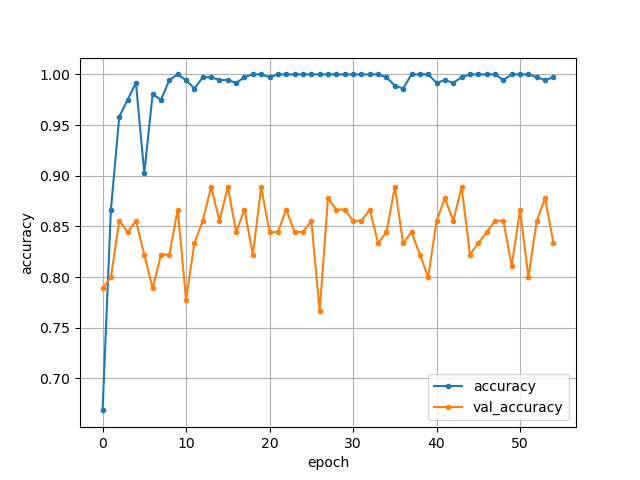
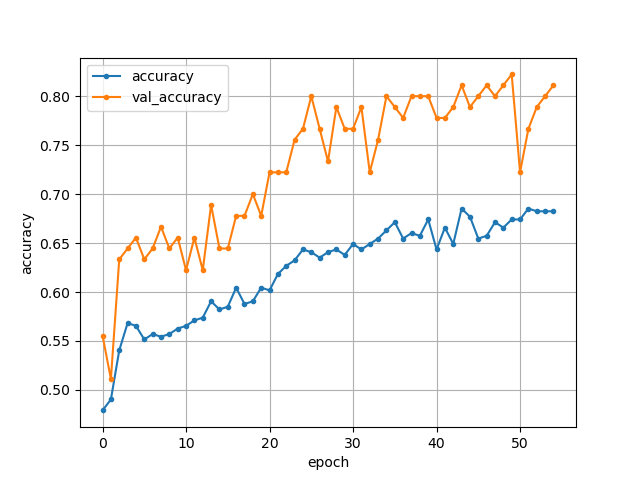
added more prebuilt models

diff --git a/src/customCNN/fine_tune.py b/src/customCNN/fine_tune.py
@@ -6,8 +6,12 @@ import imghdr
 import pickle as pkl
 import numpy as np
 import matplotlib.pyplot as plt
+from keras.layers import Input, Lambda, Dense, Flatten,Conv2D
+from keras.models import Sequential
+from keras.layers import MaxPooling2D
 from keras.applications.xception import Xception, preprocess_input
 from keras.applications.inception_v3 import InceptionV3
+from keras.applications.resnet_v2 import ResNet50V2
 from keras.optimizers import Adam
 import keras.utils as image
 # from keras.preprocessing import image
@@ -35,7 +39,7 @@ parser.add_argument('--split', type=float, default=0.8)
 
 
 def generate_from_paths_and_labels(
-        input_paths, labels, batch_size, input_size=(299, 299)):
+        input_paths, labels, batch_size, input_size=(224, 224)):
     num_samples = len(input_paths)
     while 1:
         perm = np.random.permutation(num_samples)
@@ -114,10 +118,13 @@ def main(args):
     # instantiate pre-trained Xception model
     # the default input shape is (299, 299, 3)
     # NOTE: the top classifier is not included
-    base_model = Xception(
-        include_top=False,
-        weights='imagenet',
-        input_shape=(299, 299, 3))
+    base_model = Sequential()
+
+    base_model.add(Conv2D(filters=16,kernel_size=2,padding="same",activation="relu",input_shape=(224,224,3)))
+    base_model.add(MaxPooling2D(pool_size=2))
+    base_model.add(Conv2D(filters=32,kernel_size=2,padding="same",activation ="relu"))
+    base_model.add(MaxPooling2D(pool_size=2))
+    base_model.add(Conv2D(filters=64,kernel_size=2,padding="same",activation="relu"))
 
     # create a custom top classifier
     x = base_model.output

diff --git a/src/InceptionV3/inference.py b/src/InceptionV3/inference.py
@@ -1,0 +1,45 @@
+import argparse
+import numpy as np
+from keras.applications.xception import preprocess_input
+import keras.utils as image
+# from keras.preprocessing import image
+from keras.models import load_model
+from PIL import Image
+
+parser = argparse.ArgumentParser()
+parser.add_argument('model')
+parser.add_argument('classes')
+parser.add_argument('image')
+parser.add_argument('--top_n', type=int, default=10)
+
+
+def main(args):
+
+    # create model
+    model = load_model(args.model)
+
+    # load class names
+    classes = []
+    with open(args.classes, 'r') as f:
+        classes = list(map(lambda x: x.strip(), f.readlines()))
+
+    # load an input image
+    img = image.load_img(args.image, target_size=(299, 299))
+    x = image.img_to_array(img)
+    x = np.expand_dims(x, axis=0)
+    x = preprocess_input(x)
+
+    # predict
+    pred = model.predict(x)[0]
+    result = [(classes[i], float(pred[i]) * 100.0) for i in range(len(pred))]
+    result.sort(reverse=True, key=lambda x: x[1])
+    for i in range(args.top_n):
+        (class_name, prob) = result[i]
+        print("Top %d ====================" % (i + 1))
+        print("Class name: %s" % (class_name))
+        print("Probability: %.2f%%" % (prob))
+
+
+if __name__ == '__main__':
+    args = parser.parse_args()
+    main(args)

diff --git a/src/ResNet50V2/inference.py b/src/ResNet50V2/inference.py
@@ -1,0 +1,45 @@
+import argparse
+import numpy as np
+from keras.applications.xception import preprocess_input
+import keras.utils as image
+# from keras.preprocessing import image
+from keras.models import load_model
+from PIL import Image
+
+parser = argparse.ArgumentParser()
+parser.add_argument('model')
+parser.add_argument('classes')
+parser.add_argument('image')
+parser.add_argument('--top_n', type=int, default=10)
+
+
+def main(args):
+
+    # create model
+    model = load_model(args.model)
+
+    # load class names
+    classes = []
+    with open(args.classes, 'r') as f:
+        classes = list(map(lambda x: x.strip(), f.readlines()))
+
+    # load an input image
+    img = image.load_img(args.image, target_size=(299, 299))
+    x = image.img_to_array(img)
+    x = np.expand_dims(x, axis=0)
+    x = preprocess_input(x)
+
+    # predict
+    pred = model.predict(x)[0]
+    result = [(classes[i], float(pred[i]) * 100.0) for i in range(len(pred))]
+    result.sort(reverse=True, key=lambda x: x[1])
+    for i in range(args.top_n):
+        (class_name, prob) = result[i]
+        print("Top %d ====================" % (i + 1))
+        print("Class name: %s" % (class_name))
+        print("Probability: %.2f%%" % (prob))
+
+
+if __name__ == '__main__':
+    args = parser.parse_args()
+    main(args)

diff --git a/src/VGG16/inference.py b/src/VGG16/inference.py
@@ -1,0 +1,45 @@
+import argparse
+import numpy as np
+from keras.applications.xception import preprocess_input
+import keras.utils as image
+# from keras.preprocessing import image
+from keras.models import load_model
+from PIL import Image
+
+parser = argparse.ArgumentParser()
+parser.add_argument('model')
+parser.add_argument('classes')
+parser.add_argument('image')
+parser.add_argument('--top_n', type=int, default=10)
+
+
+def main(args):
+
+    # create model
+    model = load_model(args.model)
+
+    # load class names
+    classes = []
+    with open(args.classes, 'r') as f:
+        classes = list(map(lambda x: x.strip(), f.readlines()))
+
+    # load an input image
+    img = image.load_img(args.image, target_size=(299, 299))
+    x = image.img_to_array(img)
+    x = np.expand_dims(x, axis=0)
+    x = preprocess_input(x)
+
+    # predict
+    pred = model.predict(x)[0]
+    result = [(classes[i], float(pred[i]) * 100.0) for i in range(len(pred))]
+    result.sort(reverse=True, key=lambda x: x[1])
+    for i in range(args.top_n):
+        (class_name, prob) = result[i]
+        print("Top %d ====================" % (i + 1))
+        print("Class name: %s" % (class_name))
+        print("Probability: %.2f%%" % (prob))
+
+
+if __name__ == '__main__':
+    args = parser.parse_args()
+    main(args)

diff --git a/src/customCNN/inference.py b/src/customCNN/inference.py
@@ -1,0 +1,45 @@
+import argparse
+import numpy as np
+from keras.applications.xception import preprocess_input
+import keras.utils as image
+# from keras.preprocessing import image
+from keras.models import load_model
+from PIL import Image
+
+parser = argparse.ArgumentParser()
+parser.add_argument('model')
+parser.add_argument('classes')
+parser.add_argument('image')
+parser.add_argument('--top_n', type=int, default=10)
+
+
+def main(args):
+
+    # create model
+    model = load_model(args.model)
+
+    # load class names
+    classes = []
+    with open(args.classes, 'r') as f:
+        classes = list(map(lambda x: x.strip(), f.readlines()))
+
+    # load an input image
+    img = image.load_img(args.image, target_size=(299, 299))
+    x = image.img_to_array(img)
+    x = np.expand_dims(x, axis=0)
+    x = preprocess_input(x)
+
+    # predict
+    pred = model.predict(x)[0]
+    result = [(classes[i], float(pred[i]) * 100.0) for i in range(len(pred))]
+    result.sort(reverse=True, key=lambda x: x[1])
+    for i in range(args.top_n):
+        (class_name, prob) = result[i]
+        print("Top %d ====================" % (i + 1))
+        print("Class name: %s" % (class_name))
+        print("Probability: %.2f%%" % (prob))
+
+
+if __name__ == '__main__':
+    args = parser.parse_args()
+    main(args)

diff --git a/src/ResNet50V2/fine_tune.py b/src/ResNet50V2/fine_tune.py
@@ -8,6 +8,7 @@ import numpy as np
 import matplotlib.pyplot as plt
 from keras.applications.xception import Xception, preprocess_input
 from keras.applications.inception_v3 import InceptionV3
+from keras.applications.resnet_v2 import ResNet50V2
 from keras.optimizers import Adam
 import keras.utils as image
 # from keras.preprocessing import image
@@ -35,7 +36,7 @@ parser.add_argument('--split', type=float, default=0.8)
 
 
 def generate_from_paths_and_labels(
-        input_paths, labels, batch_size, input_size=(299, 299)):
+        input_paths, labels, batch_size, input_size=(224, 224)):
     num_samples = len(input_paths)
     while 1:
         perm = np.random.permutation(num_samples)
@@ -114,10 +115,10 @@ def main(args):
     # instantiate pre-trained Xception model
     # the default input shape is (299, 299, 3)
     # NOTE: the top classifier is not included
-    base_model = Xception(
+    base_model = ResNet50V2(
         include_top=False,
         weights='imagenet',
-        input_shape=(299, 299, 3))
+        input_shape=(224, 224, 3))
 
     # create a custom top classifier
     x = base_model.output

diff --git a/src/VGG16/fine_tune.py b/src/VGG16/fine_tune.py
@@ -8,6 +8,7 @@ import numpy as np
 import matplotlib.pyplot as plt
 from keras.applications.xception import Xception, preprocess_input
 from keras.applications.inception_v3 import InceptionV3
+from keras.applications.vgg16 import VGG16
 from keras.optimizers import Adam
 import keras.utils as image
 # from keras.preprocessing import image
@@ -35,7 +36,7 @@ parser.add_argument('--split', type=float, default=0.8)
 
 
 def generate_from_paths_and_labels(
-        input_paths, labels, batch_size, input_size=(299, 299)):
+        input_paths, labels, batch_size, input_size=(224, 224)):
     num_samples = len(input_paths)
     while 1:
         perm = np.random.permutation(num_samples)
@@ -114,10 +115,10 @@ def main(args):
     # instantiate pre-trained Xception model
     # the default input shape is (299, 299, 3)
     # NOTE: the top classifier is not included
-    base_model = Xception(
+    base_model = VGG16(
         include_top=False,
         weights='imagenet',
-        input_shape=(299, 299, 3))
+        input_shape=(224, 224, 3))
 
     # create a custom top classifier
     x = base_model.output

diff --git a/src/InceptionV3/fine_tune.py b/src/InceptionV3/fine_tune.py
@@ -8,6 +8,7 @@ import numpy as np
 import matplotlib.pyplot as plt
 from keras.applications.xception import Xception, preprocess_input
 from keras.applications.inception_v3 import InceptionV3
+from keras.applications.vgg16 import VGG16
 from keras.optimizers import Adam
 import keras.utils as image
 # from keras.preprocessing import image
@@ -114,7 +115,7 @@ def main(args):
     # instantiate pre-trained Xception model
     # the default input shape is (299, 299, 3)
     # NOTE: the top classifier is not included
-    base_model = Xception(
+    base_model = InceptionV3(
         include_top=False,
         weights='imagenet',
         input_shape=(299, 299, 3))
